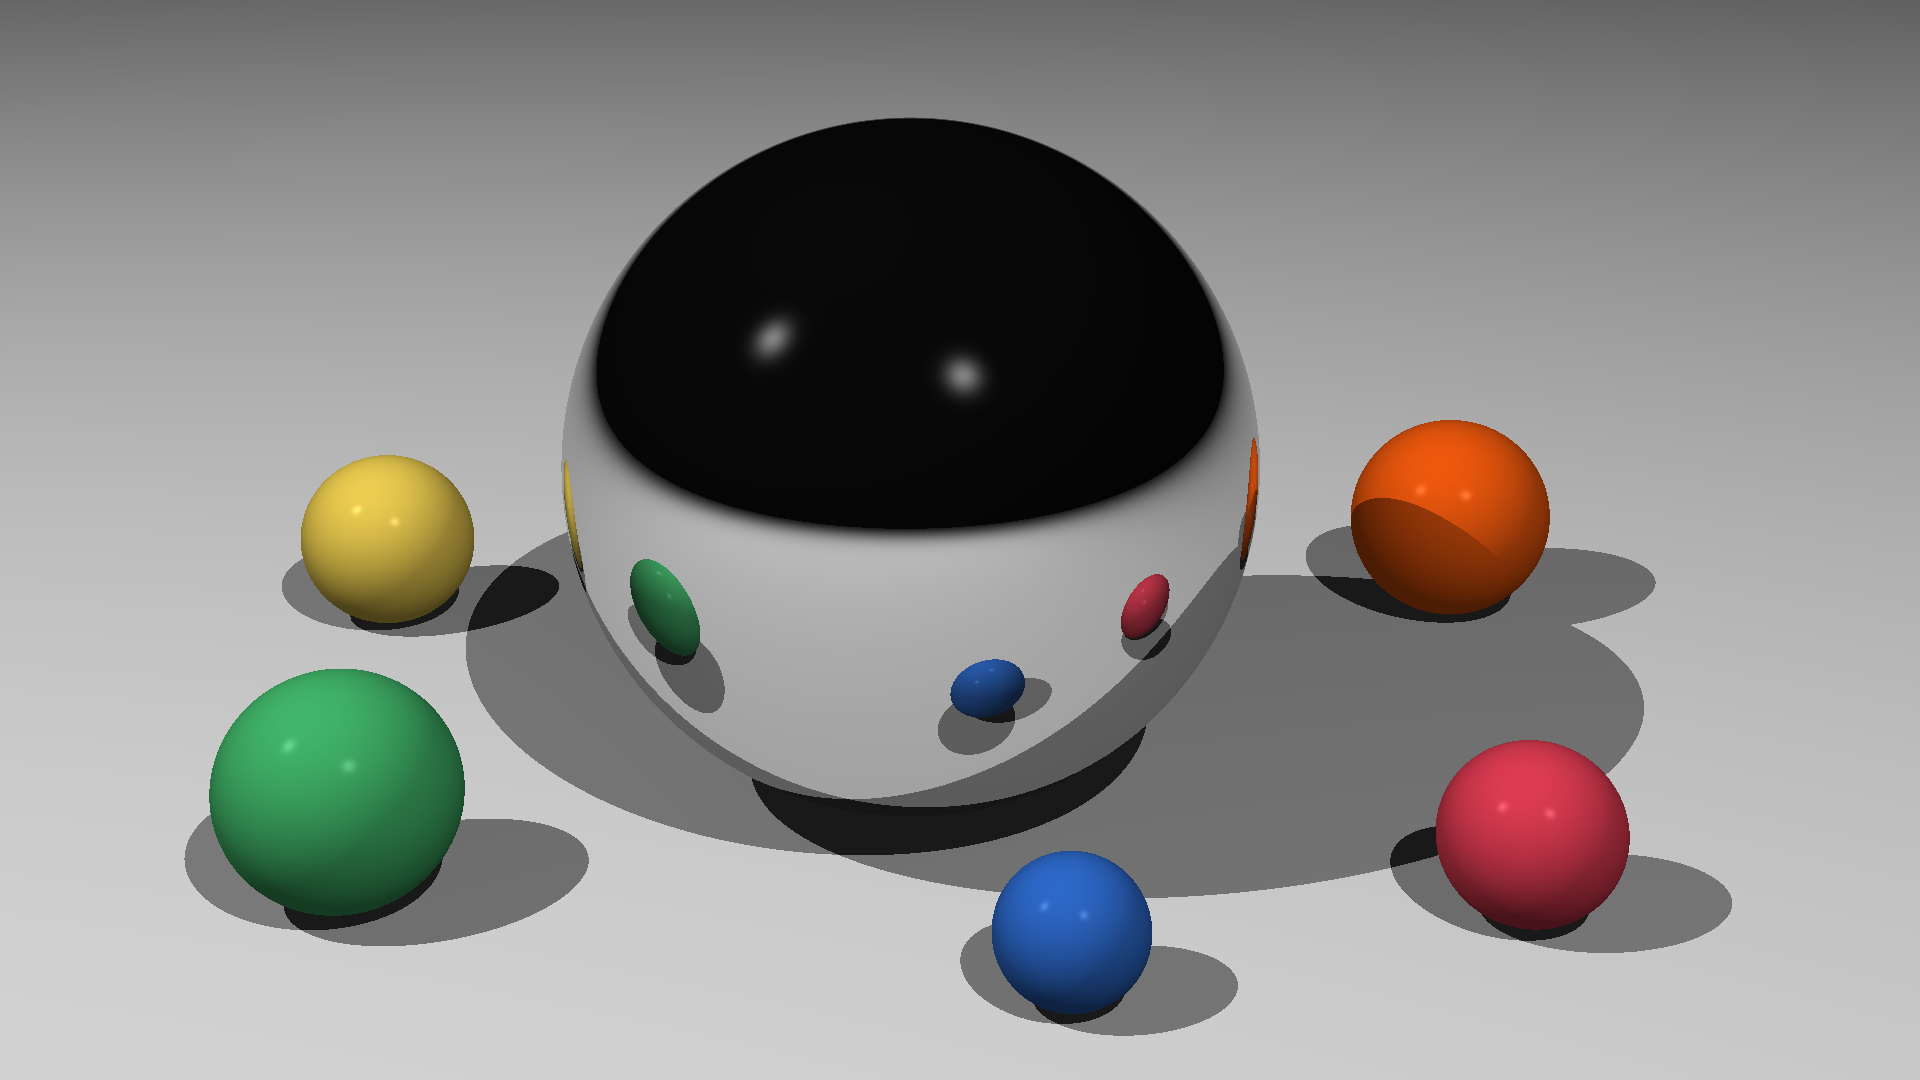
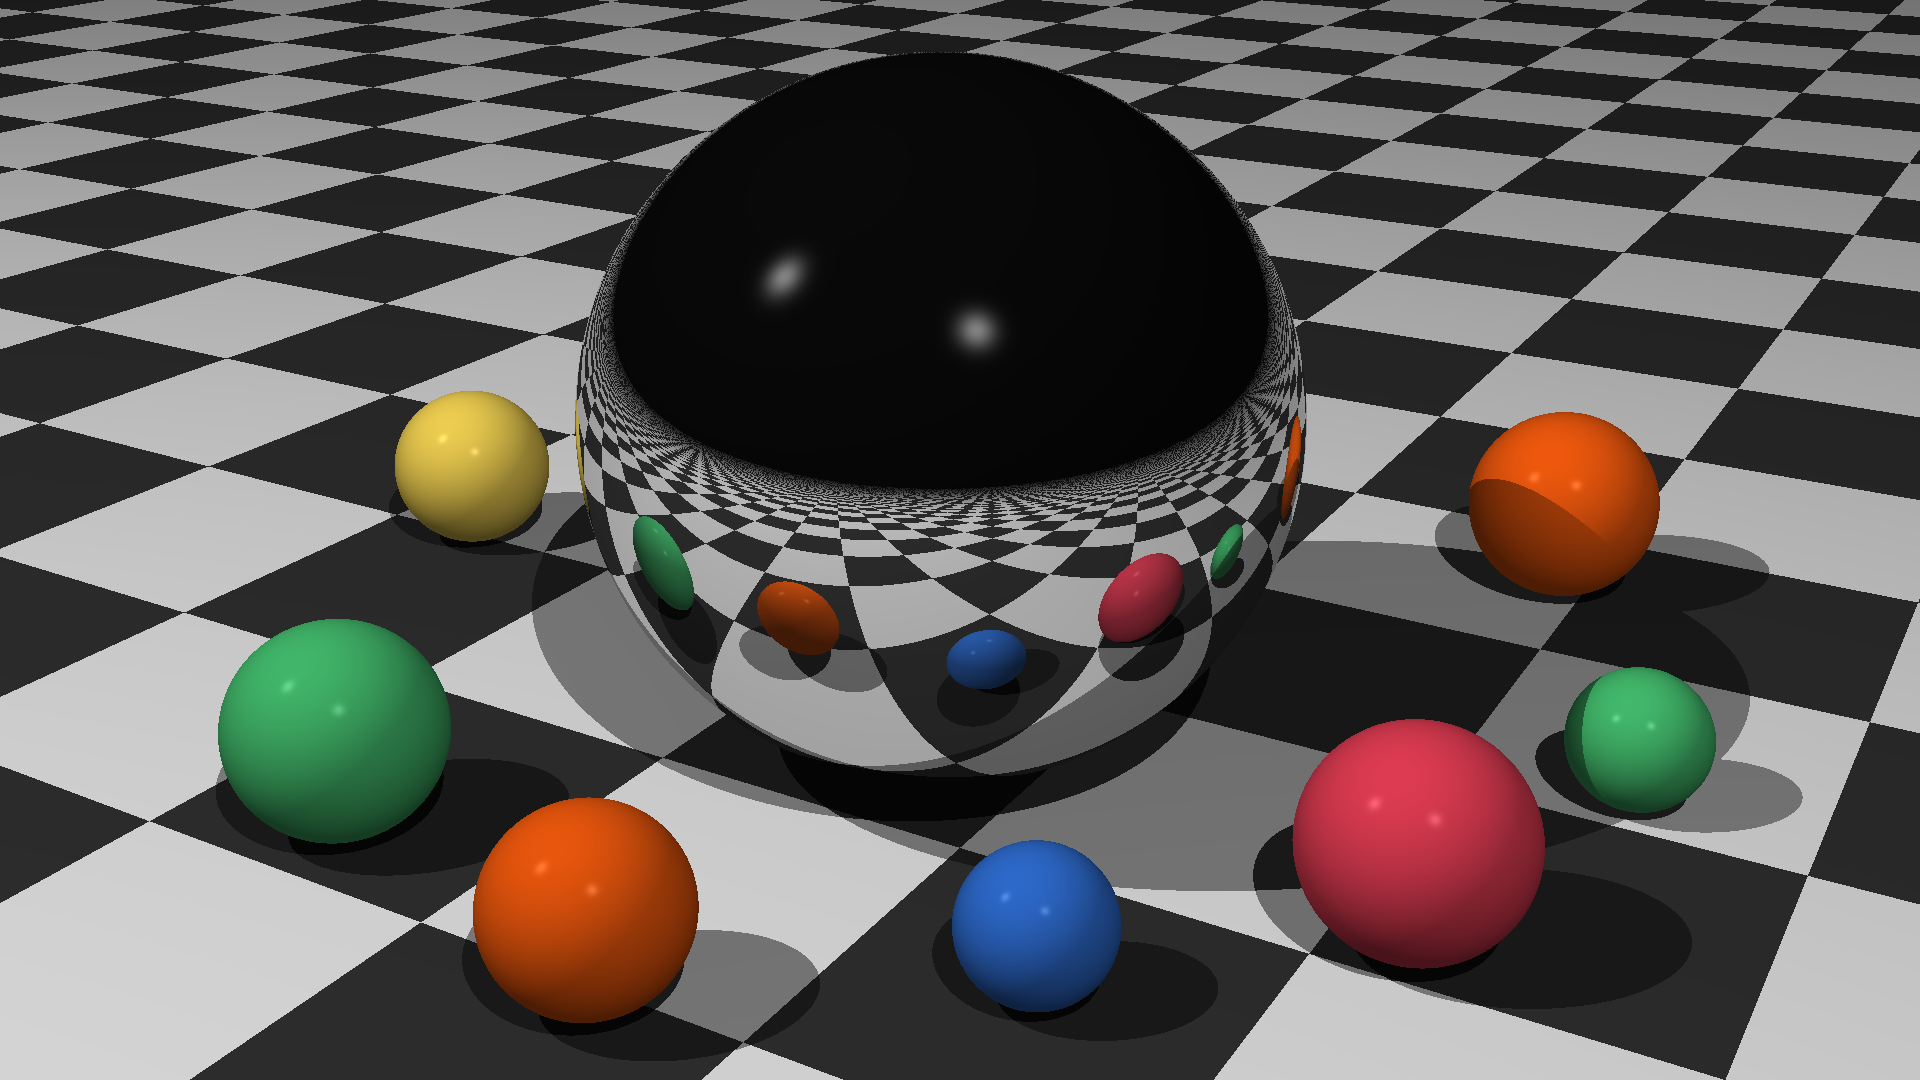
Update reflection render.

diff --git a/src/Chapters/Chapter-11.cpp b/src/Chapters/Chapter-11.cpp
@@ -2,6 +2,8 @@
 #include "Core/Transformations.hpp"
 #include "Scene/Camera.hpp"
 #include "Scene/Lights/Light.hpp"
+#include "Scene/Objects/Materials/PatternMaterial.hpp"
+#include "Scene/Objects/Materials/Patterns/CheckerPattern.hpp"
 #include "Scene/Objects/Materials/SimpleMaterial.hpp"
 #include "Scene/Objects/Plane.hpp"
 #include "Scene/Objects/Sphere.hpp"
@@ -47,10 +49,11 @@ void reflection_scene() {
   // Floor
   //----------------------------------------------------------------------------
   Plane floor;
-  SimpleMaterial wall_floor_material;
-  wall_floor_material.color = Color::White;
-  wall_floor_material.specular = 0;
-  floor.set_material(&wall_floor_material);
+  PatternMaterial floor_material;
+  CheckerPattern floor_pattern(Color::White, Color::Darkgrey);
+  floor_material.pattern = &floor_pattern;
+  floor_material.specular = 0;
+  floor.set_material(&floor_material);
   scene.objects.push_back(&floor);
 
   //----------------------------------------------------------------------------
@@ -76,24 +79,34 @@ void reflection_scene() {
   scene.objects.push_back(&sphere1);
 
   Sphere sphere2;
-  sphere2.set_transform(translation(-1.5, 0.33, -0.75) * scaling(0.33));
+  sphere2.set_transform(translation(-1.5, 0.3, -0.75) * scaling(0.3));
   sphere2.set_material(&material_green);
   scene.objects.push_back(&sphere2);
 
   Sphere sphere3;
-  sphere3.set_transform(translation(1.5, 0.25, 0.35) * scaling(0.25));
+  sphere3.set_transform(translation(1.2, 0.3, 0.15) * scaling(0.3));
   sphere3.set_material(&material_red);
   scene.objects.push_back(&sphere3);
 
   Sphere sphere4;
-  sphere4.set_transform(translation(-2.6, 0.3, 1) * scaling(0.3));
+  sphere4.set_transform(translation(-2.6, 0.27, 1) * scaling(0.27));
   sphere4.set_material(&material_yellow);
   scene.objects.push_back(&sphere4);
 
   Sphere sphere5;
-  sphere5.set_transform(translation(0.9, 0.35, 2.5) * scaling(0.35));
+  sphere5.set_transform(translation(0.9, 0.31, 2.5) * scaling(0.31));
   sphere5.set_material(&material_orange);
   scene.objects.push_back(&sphere5);
+
+  Sphere sphere6;
+  sphere6.set_transform(translation(-0.4, 0.26, -1.05) * scaling(0.26));
+  sphere6.set_material(&material_orange);
+  scene.objects.push_back(&sphere6);
+
+  Sphere sphere7;
+  sphere7.set_transform(translation(1.5, 0.2, 1.15) * scaling(0.2));
+  sphere7.set_material(&material_green);
+  scene.objects.push_back(&sphere7);
 
   //----------------------------------------------------------------------------
   // Light
@@ -108,7 +121,8 @@ void reflection_scene() {
   // Camera
   //----------------------------------------------------------------------------
   Camera camera(1920, 1080, PI / 4);
-  camera.set_view_transform(Point(2, 3, -5), Point(0, 1, 0), Vector(0, 1, 0));
+  camera.set_view_transform(Point(2.5, 3, -4.3), Point(0, 0.9, 0),
+                            Vector(0, 1, 0));
 
   Image image = camera.render(scene);
   image.save_as_png("images/chapter-11-reflection.png");
